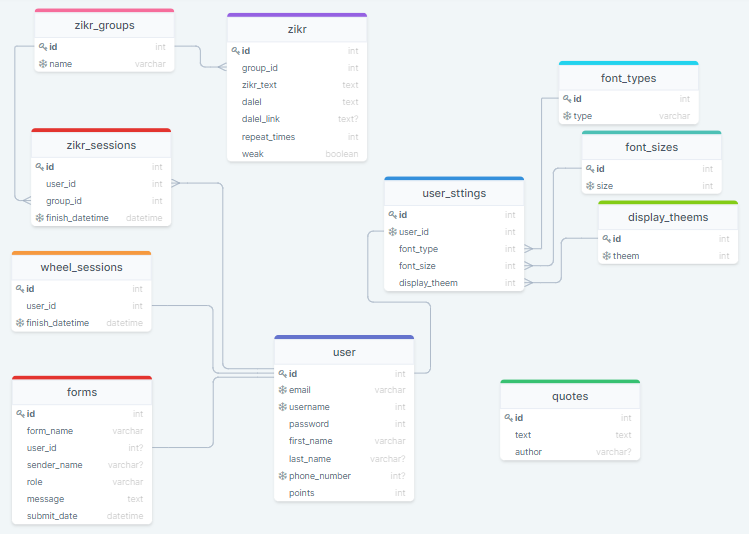
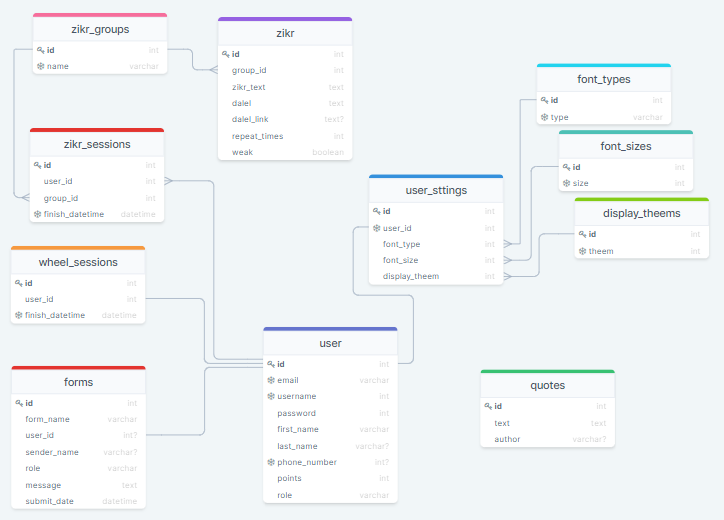
enhance docs

diff --git a/docs/user.md b/docs/user.md
@@ -10,5 +10,6 @@
 | password | STRING | A Password is the secret keyword of the user. A Password is used for user authentication. A Password is NOT UNIQUE, REQUIRED. |
 | first\_name | STRING | First name of the owner of the account. useful for interaction with the user via emails.  NOT UNIQUE, REQUIRED. |
 | last\_name | STRING | Last name of the owner of the account. useful for interaction with the user via emails.  NOT UNIQUE, REQUIRED. |
-| phone\_number | STRING | A phone\_number is the phone number the user used for communication with the user. A phone\_number is UNIQUE, NOT REQUIRED. |
+| phone\_number | STRING | A Phone\_number is the phone number the user used for communication with the user. A Phone\_number is UNIQUE, NOT REQUIRED. |
 | points | INT | Points are the number of points the user got while using the app. Points are NOT UNIQUE, REQUIRED, CHANGING.|
+| role | STRING | A Role indicate the permission the user has, and what resources to access. A Role are NOT UNIQUE, REQUIRED, CHANGING.|
